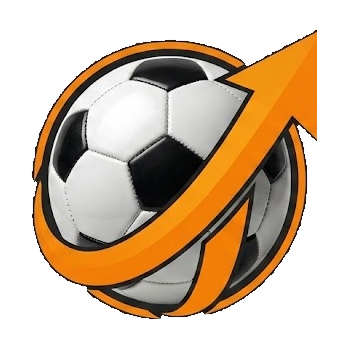
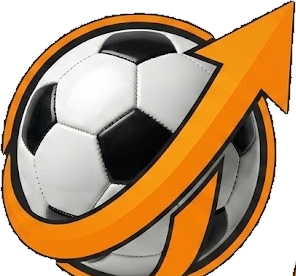
로고 세로 15% 축소
아트워크를 이음새에서 갈라 따로 처리한다. 워드마크는 세로만 눌러
줄이고 — 폭은 38px 에서 "itk plus" 가 읽히게 하는 요소라 유지한다 —
마크는 균등 축소한다. 공을 같은 방식으로 누르면 럭비공이 된다.

637x276 → 601x235, 비율 2.31:1 → 2.56:1.

파비콘·홈화면 아이콘도 이 마크로 다시 만들었다.

diff --git a/components/Logo.tsx b/components/Logo.tsx
@@ -16,11 +16,16 @@ import Image from "next/image";
  *
  * Sized by height, not width: the header's rhythm is vertical, and the wordmark
  * stacks "plus" under "itk" so the width follows from however tall it may be.
+ *
+ * The artwork itself was shortened 15%. The wordmark is squashed on the
+ * vertical only — its width is what makes "itk plus" readable at 38px — while
+ * the mark is scaled evenly, because a ball squashed the same way reads as a
+ * rugby ball.
  */
 
 /** Intrinsic size of public/itk-plus.png. */
-const W = 637;
-const H = 276;
+const W = 601;
+const H = 235;
 
 export function Logo({ height = 38 }: { height?: number }) {
   const width = Math.round((height * W) / H);
